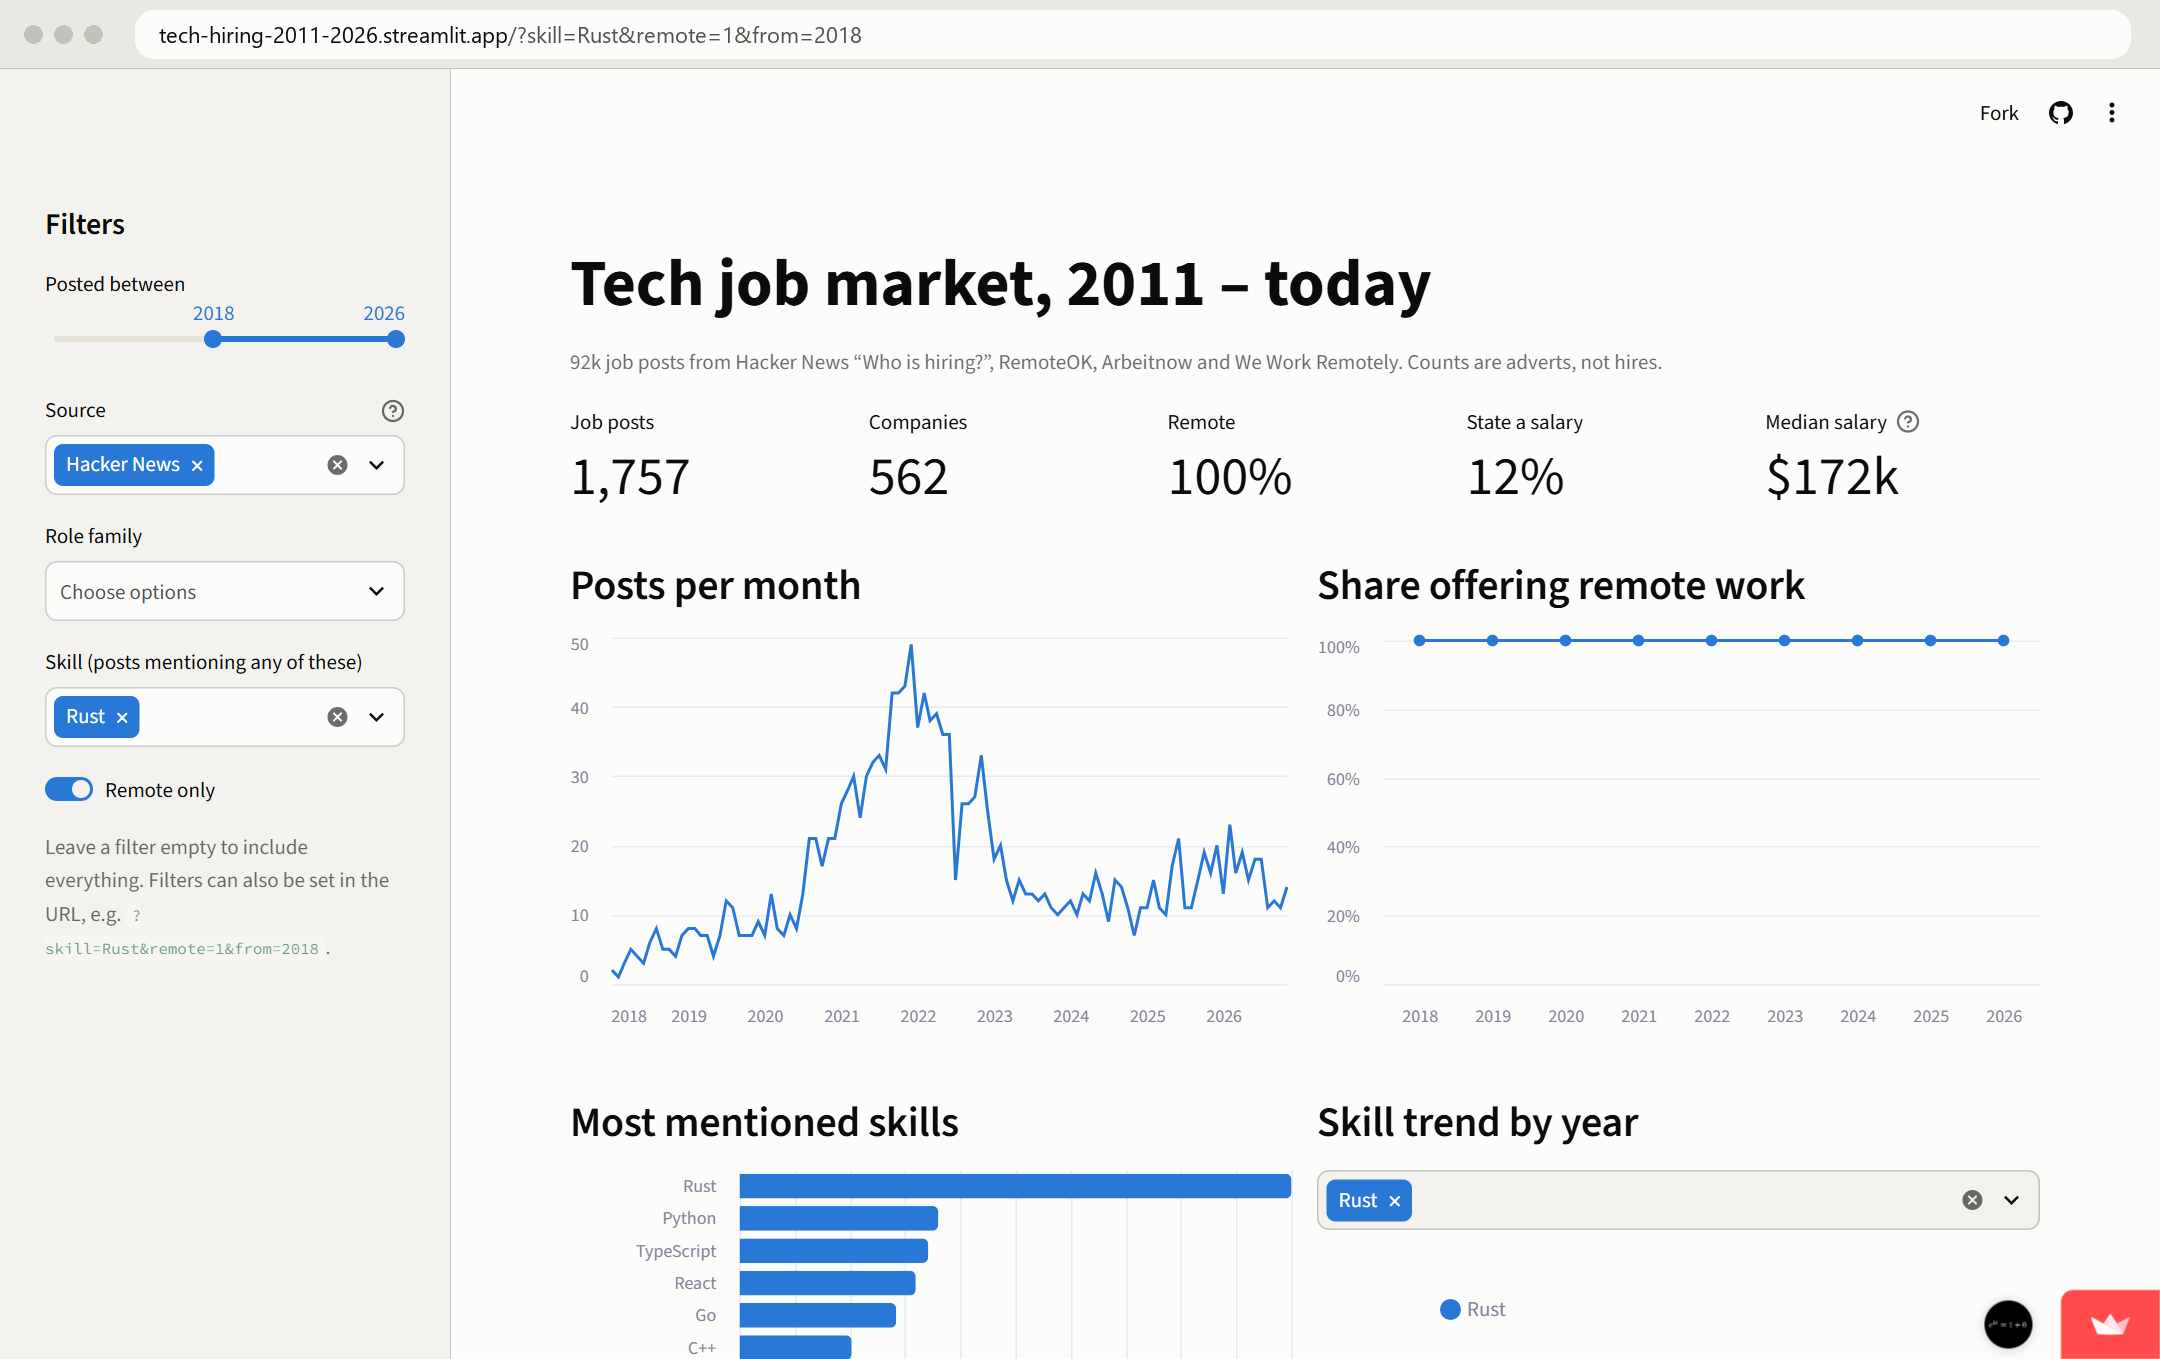
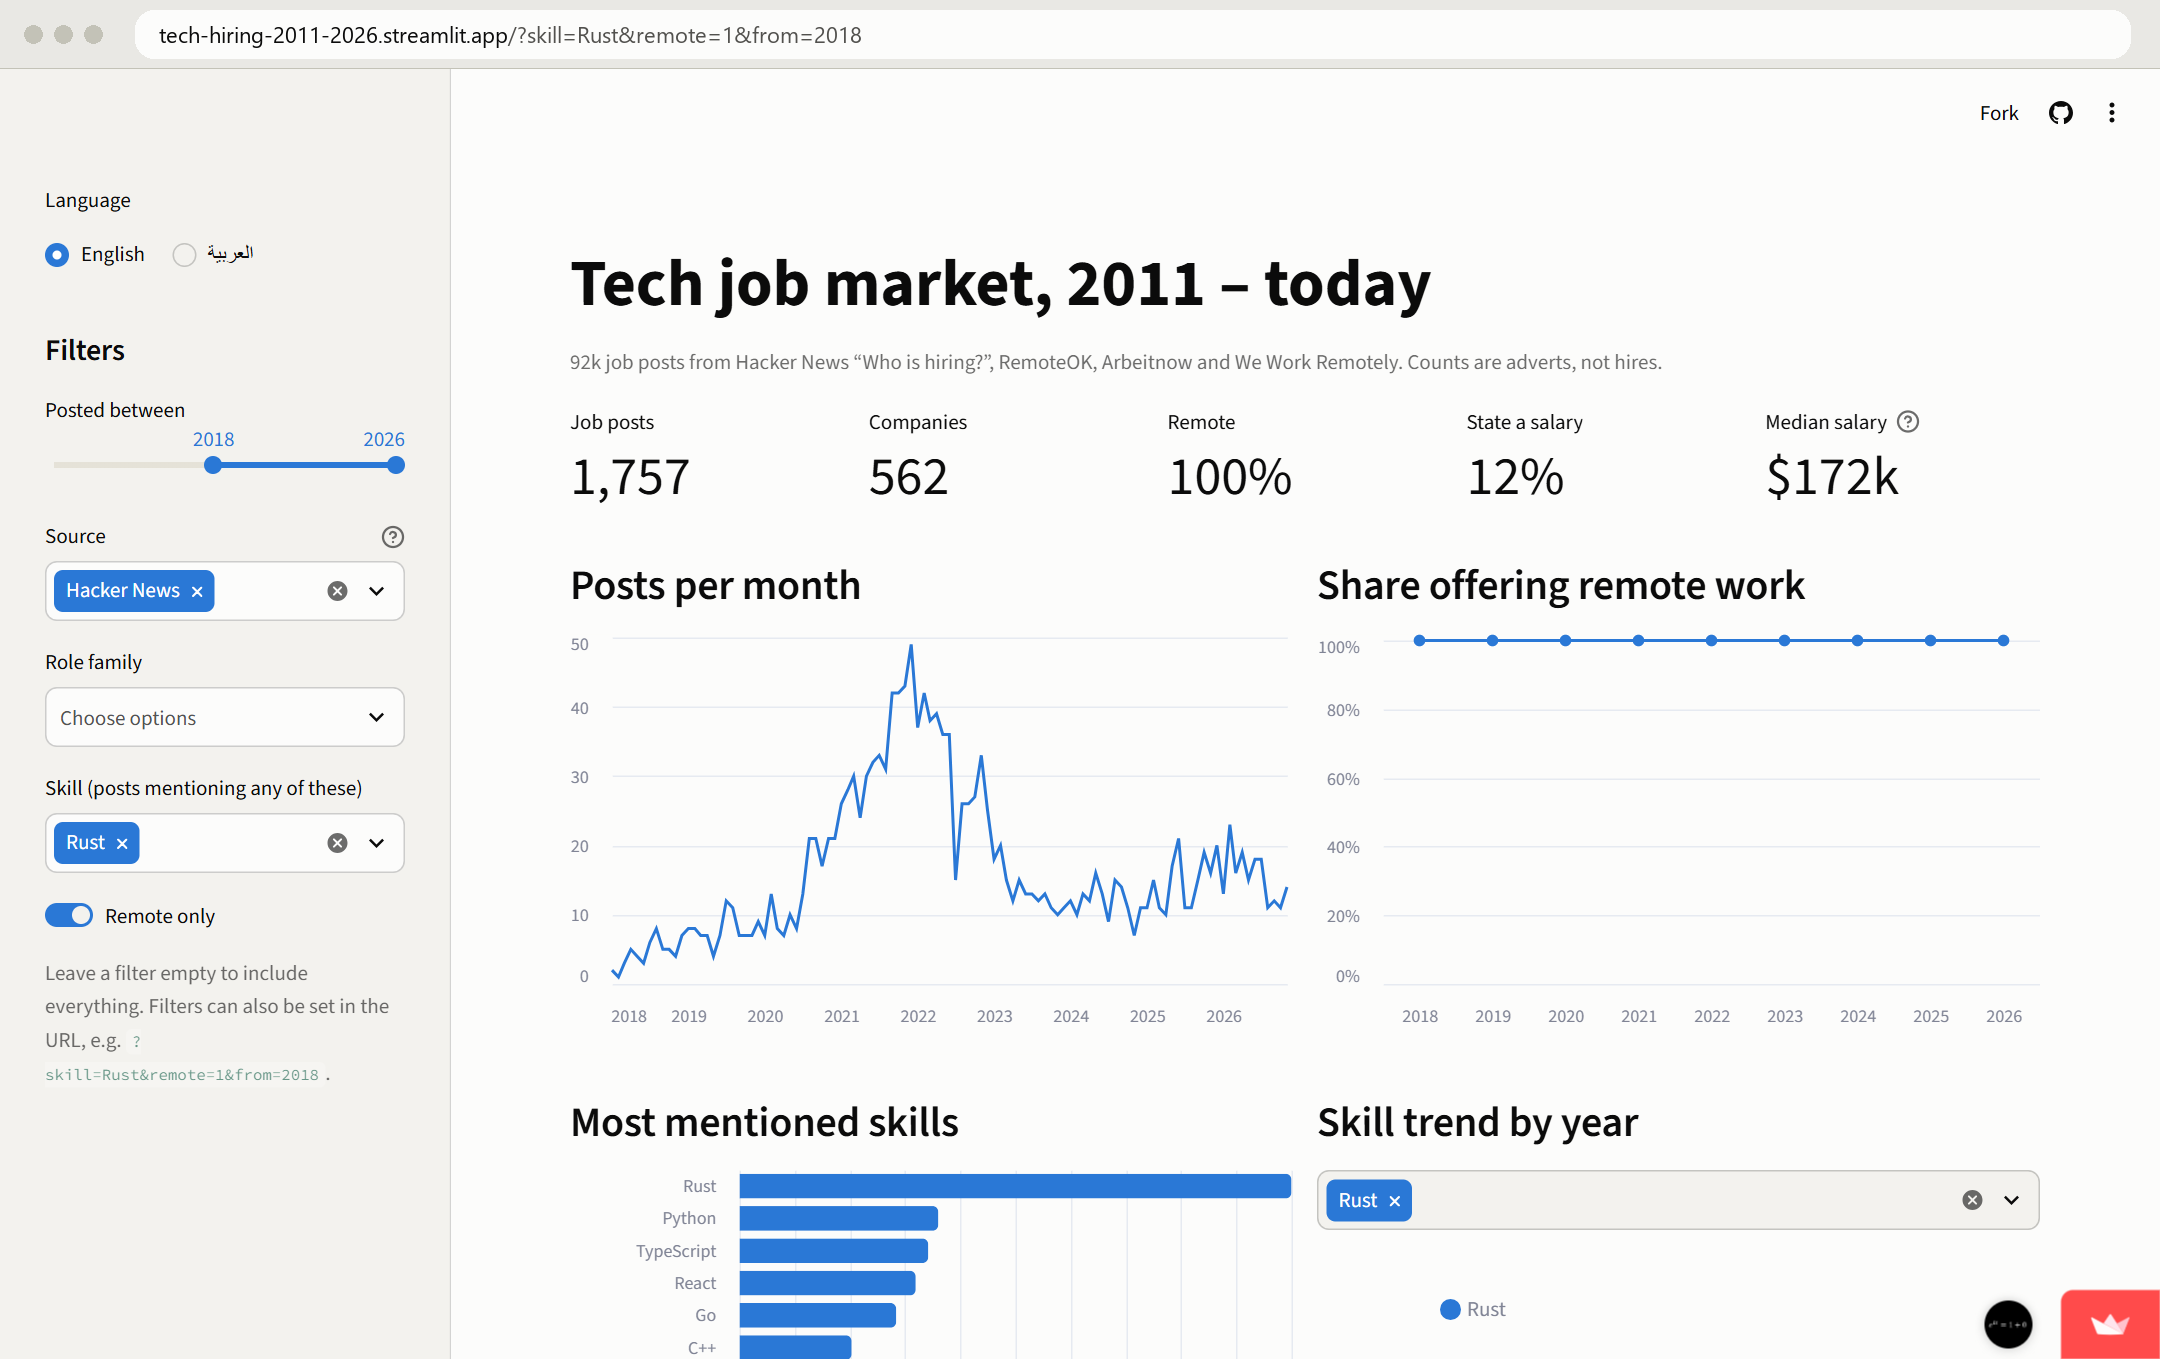
Showcase: refresh dashboard screenshots (English and Arabic)

Changed region(s): [[0.0, 0.2472, 0.1861, 0.7726], [0.0, 0.1236, 0.0931, 0.2163], [0.0931, 0.2163, 0.1861, 0.2781]]

diff --git a/reports/capture_dashboard.py b/reports/capture_dashboard.py
@@ -105,7 +105,14 @@ if __name__ == "__main__":
                 query = with_lang(query, lang)
                 page = browser.new_page(viewport={"width": W, "height": height}, device_scale_factor=SCALE,
                                         color_scheme="light")
-                page.goto(base + query, wait_until="domcontentloaded", timeout=180_000)
+                for attempt in range(4):                     # the hosted app occasionally resets a connection
+                    try:
+                        page.goto(base + query, wait_until="domcontentloaded", timeout=180_000)
+                        break
+                    except Exception:
+                        if attempt == 3:
+                            raise
+                        page.wait_for_timeout(5000)
                 fr = app_frame(page)
                 settle(fr, lang)
                 if heading:
